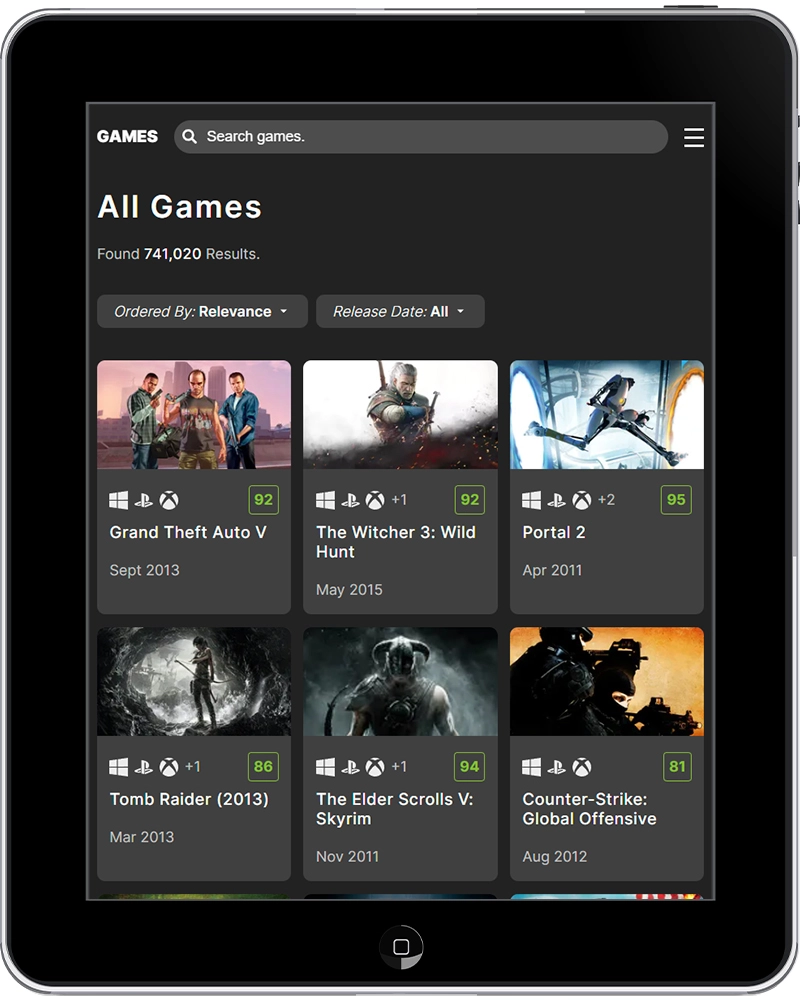
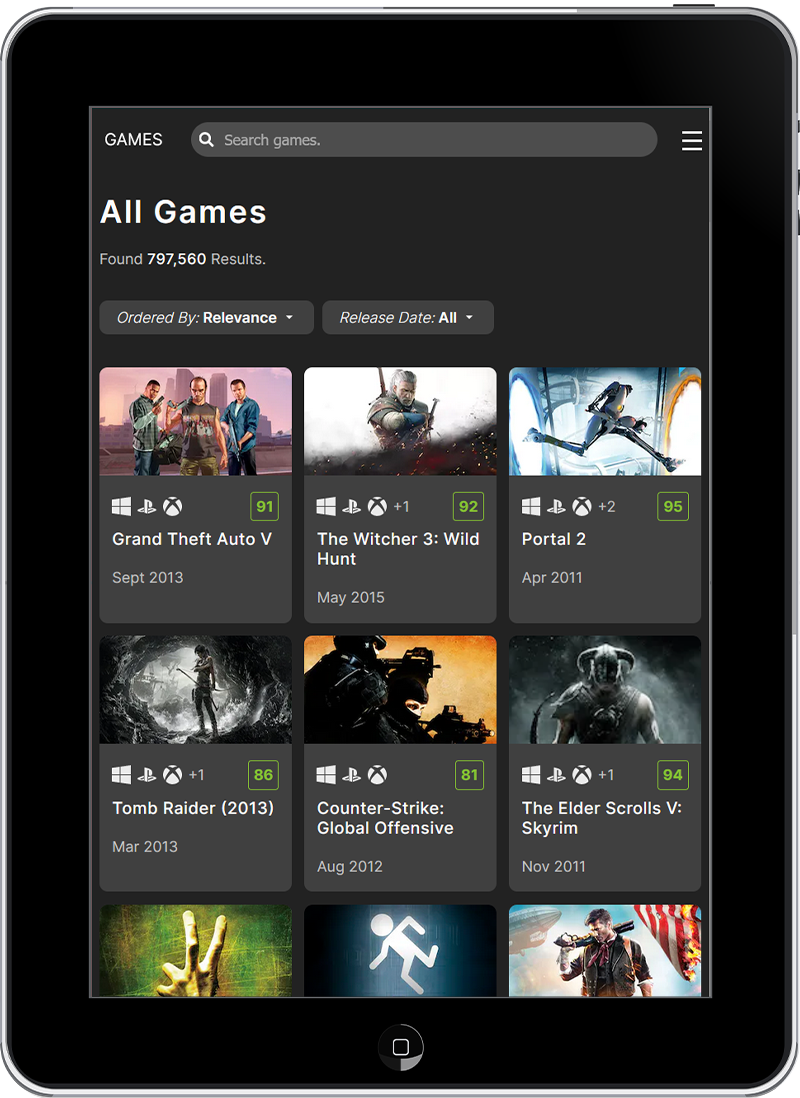
Updated Project images & styles.

diff --git a/styles/components/_project.scss b/styles/components/_project.scss
@@ -39,7 +39,7 @@
   &__img {
     &__wrapper {
       position: relative;
-      aspect-ratio: 4/5;
+      aspect-ratio: 0.73/1;
 
       @media (max-width: $laptop) {
         margin: 0 auto;
